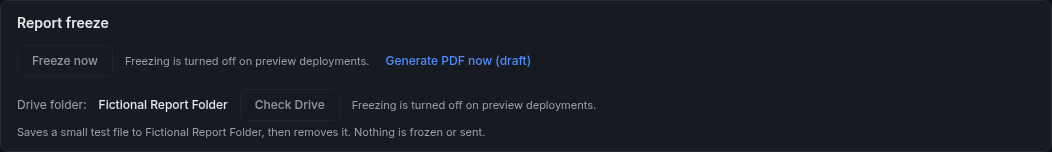
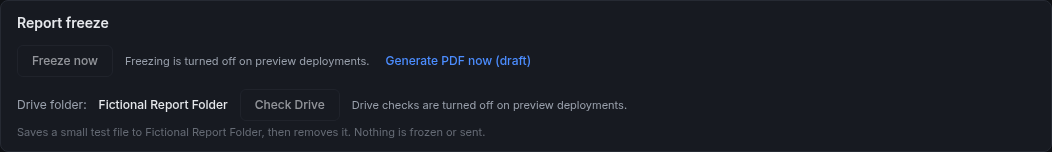
Preview guard: Drive checks message lives in DriveCheckService (freeze graph unchanged); harness shims next/navigation; screenshots

Changed region(s): [[0.0, 0.8421, 0.4563, 0.8947], [0.3346, 0.6579, 0.6084, 0.7368]]

diff --git a/tests/DriveCheck.test.ts b/tests/DriveCheck.test.ts
@@ -187,7 +187,7 @@ describe("DriveCheckService: one message per step", () => {
     expect(DriveCheckService.folderLabel({ GOOGLE_DRIVE_FOLDER_ID: "  " })).toBe("Cardiac Status Reports");
     // The page passes exactly this label to the button (src/app/reports/page.tsx).
     const { readFileSync } = await import("node:fs");
-    expect(readFileSync("src/app/reports/page.tsx", "utf8")).toContain("<DriveCheckButton folder={DriveCheckService.folderLabel()} help={DriveCheckService.help(DriveCheckService.folderLabel())} disabledNote={FreezeGuard.disabled() ? FreezeGuard.DRIVE_CHECK_NOTE : null} />");
+    expect(readFileSync("src/app/reports/page.tsx", "utf8")).toContain("<DriveCheckButton folder={DriveCheckService.folderLabel()} help={DriveCheckService.help(DriveCheckService.folderLabel())} disabledNote={FreezeGuard.disabled() ? DriveCheckService.PREVIEW_OFF : null} />");
     const { renderToStaticMarkup } = await import("react-dom/server");
     const { createElement } = await import("react");
     const { DriveCheckButton } = await import("@/components/DriveCheckButton");
@@ -232,10 +232,9 @@ describe("Check Drive on a preview deployment (FreezeGuard)", () => {
     const { renderToStaticMarkup } = await import("react-dom/server");
     const { createElement } = await import("react");
     const { DriveCheckButton } = await import("@/components/DriveCheckButton");
-    const { FreezeGuard } = await import("@/lib/report/FreezeGuard");
     const help = "Saves a small test file to F, then removes it.";
-    expect(FreezeGuard.DRIVE_CHECK_NOTE).toBe(PREVIEW_MESSAGE);
-    const off = renderToStaticMarkup(createElement(DriveCheckButton, { folder: "F", help, disabledNote: FreezeGuard.DRIVE_CHECK_NOTE }));
+    expect(DriveCheckService.PREVIEW_OFF).toBe(PREVIEW_MESSAGE);
+    const off = renderToStaticMarkup(createElement(DriveCheckButton, { folder: "F", help, disabledNote: DriveCheckService.PREVIEW_OFF }));
     expect(off).toContain(`<span data-testid="drive-check-disabled-note" class="type-caption text-muted">${PREVIEW_MESSAGE}</span>`);
     expect(off).toMatch(/<button[^>]*disabled=""[^>]*data-testid="drive-check"/);
     expect(off).toContain(`<p class="text-muted type-caption opacity-60">${help}</p>`);

diff --git a/src/lib/services/DriveCheckService.ts b/src/lib/services/DriveCheckService.ts
@@ -18,6 +18,8 @@ export type DriveCheckResult =
  */
 export class DriveCheckService {
   static readonly FILE_PREFIX = "portfolio-drive-setup-test-";
+  /** Check Drive on a preview deployment (FreezeGuard): the service message and the UI note (one string). */
+  static readonly PREVIEW_OFF = "Drive checks are turned off on preview deployments.";
   static readonly NOT_CONFIGURED = "Drive isn't set up on this server.";
   static readonly NOT_CONFIGURED_DETAIL = "Add GOOGLE_DRIVE_CLIENT_ID, GOOGLE_DRIVE_CLIENT_SECRET and GOOGLE_DRIVE_REFRESH_TOKEN, then redeploy.";
   static readonly READ_FAILED = "Saved a test file, but couldn't read it back.";
@@ -64,7 +66,7 @@ export class DriveCheckService {
 
   /** Refused on a preview deployment (FreezeGuard) before any Drive call: previews share production settings. */
   static async run(env: EnvSource = process.env, fetchImpl: FetchLike = fetch, now: () => Date = () => new Date()): Promise<DriveCheckResult> {
-    if (FreezeGuard.disabled()) return { ok: false, step: "setup", message: FreezeGuard.DRIVE_CHECK_NOTE, detail: null };
+    if (FreezeGuard.disabled()) return { ok: false, step: "setup", message: DriveCheckService.PREVIEW_OFF, detail: null };
     const drive = ReportEnv.drive(env);
     if (!drive) return { ok: false, step: "setup", message: DriveCheckService.NOT_CONFIGURED, detail: DriveCheckService.NOT_CONFIGURED_DETAIL };
     const client = new GoogleDriveClient(drive, fetchImpl);

diff --git a/src/app/reports/page.tsx b/src/app/reports/page.tsx
@@ -91,7 +91,7 @@ export default async function ReportsPage({ searchParams }: { searchParams: Prom
             </a>
             <YearEndReportButton years={yearEndYears} current={FiscalYear.of(today).label} initialOpen={openYearEnd} disabledNote={FreezeGuard.disabled() ? FreezeGuard.NOTE : null} />
           </div>
-          {scope.isDefault && <DriveCheckButton folder={DriveCheckService.folderLabel()} help={DriveCheckService.help(DriveCheckService.folderLabel())} disabledNote={FreezeGuard.disabled() ? FreezeGuard.DRIVE_CHECK_NOTE : null} />}
+          {scope.isDefault && <DriveCheckButton folder={DriveCheckService.folderLabel()} help={DriveCheckService.help(DriveCheckService.folderLabel())} disabledNote={FreezeGuard.disabled() ? DriveCheckService.PREVIEW_OFF : null} />}
           <form action={setShowKeyPageForm} className="flex flex-wrap items-end gap-4 type-table">
             <label className="flex items-center gap-2 pb-1">
               <input type="checkbox" name="showKeyPage" defaultChecked={options.showKeyPage} />

diff --git a/tests/browser/fixture.tsx b/tests/browser/fixture.tsx
@@ -1,5 +1,6 @@
 import { createRoot } from "react-dom/client";
 import { YearEndReportButton } from "../../src/components/YearEndReportButton";
+import { DriveCheckService } from "../../src/lib/services/DriveCheckService";
 import { AiSettingsForm } from "../../src/components/AiSettingsForm";
 import { AiFeaturesPanel } from "../../src/components/AiModelsPanel";
 import { OpenAiModelListProvider } from "../../src/components/useOpenAiModelList";
@@ -121,7 +122,7 @@ createRoot(document.getElementById("root")!).render(new URLSearchParams(window.l
         <a href="#" className="type-table-strong text-accent">Generate PDF now (draft)</a>
       </div>
       <DriveCheckButton folder="Fictional Report Folder" help="Saves a small test file to Fictional Report Folder, then removes it. Nothing is frozen or sent."
-        disabledNote={FreezeGuard.disabled() ? FreezeGuard.DRIVE_CHECK_NOTE : null} />
+        disabledNote={FreezeGuard.disabled() ? DriveCheckService.PREVIEW_OFF : null} />
     </section>
   </main>
 ) : closedPage ? (

diff --git a/tests/browser/next-shims.tsx b/tests/browser/next-shims.tsx
@@ -9,3 +9,6 @@ export function dynamic(load: () => Promise<ComponentType<Record<string, unknown
   };
 }
 export function Link(props: AnchorHTMLAttributes<HTMLAnchorElement>) { return <a {...props} />; }
+// next/navigation (year-end report button): the harness has no router, so refresh and navigation do nothing.
+export function useRouter() { return { refresh() {}, push() {}, replace() {}, back() {}, forward() {}, prefetch() {} }; }
+export function usePathname() { return "/"; }

diff --git a/src/lib/report/FreezeGuard.ts b/src/lib/report/FreezeGuard.ts
@@ -15,8 +15,6 @@ export class FreezeDisabledError extends Error {
 export class FreezeGuard {
   /** The UI note; the same string as the server error. */
   static readonly NOTE = FreezeDisabledError.MESSAGE;
-  /** Check Drive on a preview: the UI note and the Drive check service message (one string). */
-  static readonly DRIVE_CHECK_NOTE = "Drive checks are turned off on preview deployments.";
 
   static disabled(): boolean {
     return process.env.VERCEL_ENV === "preview";
